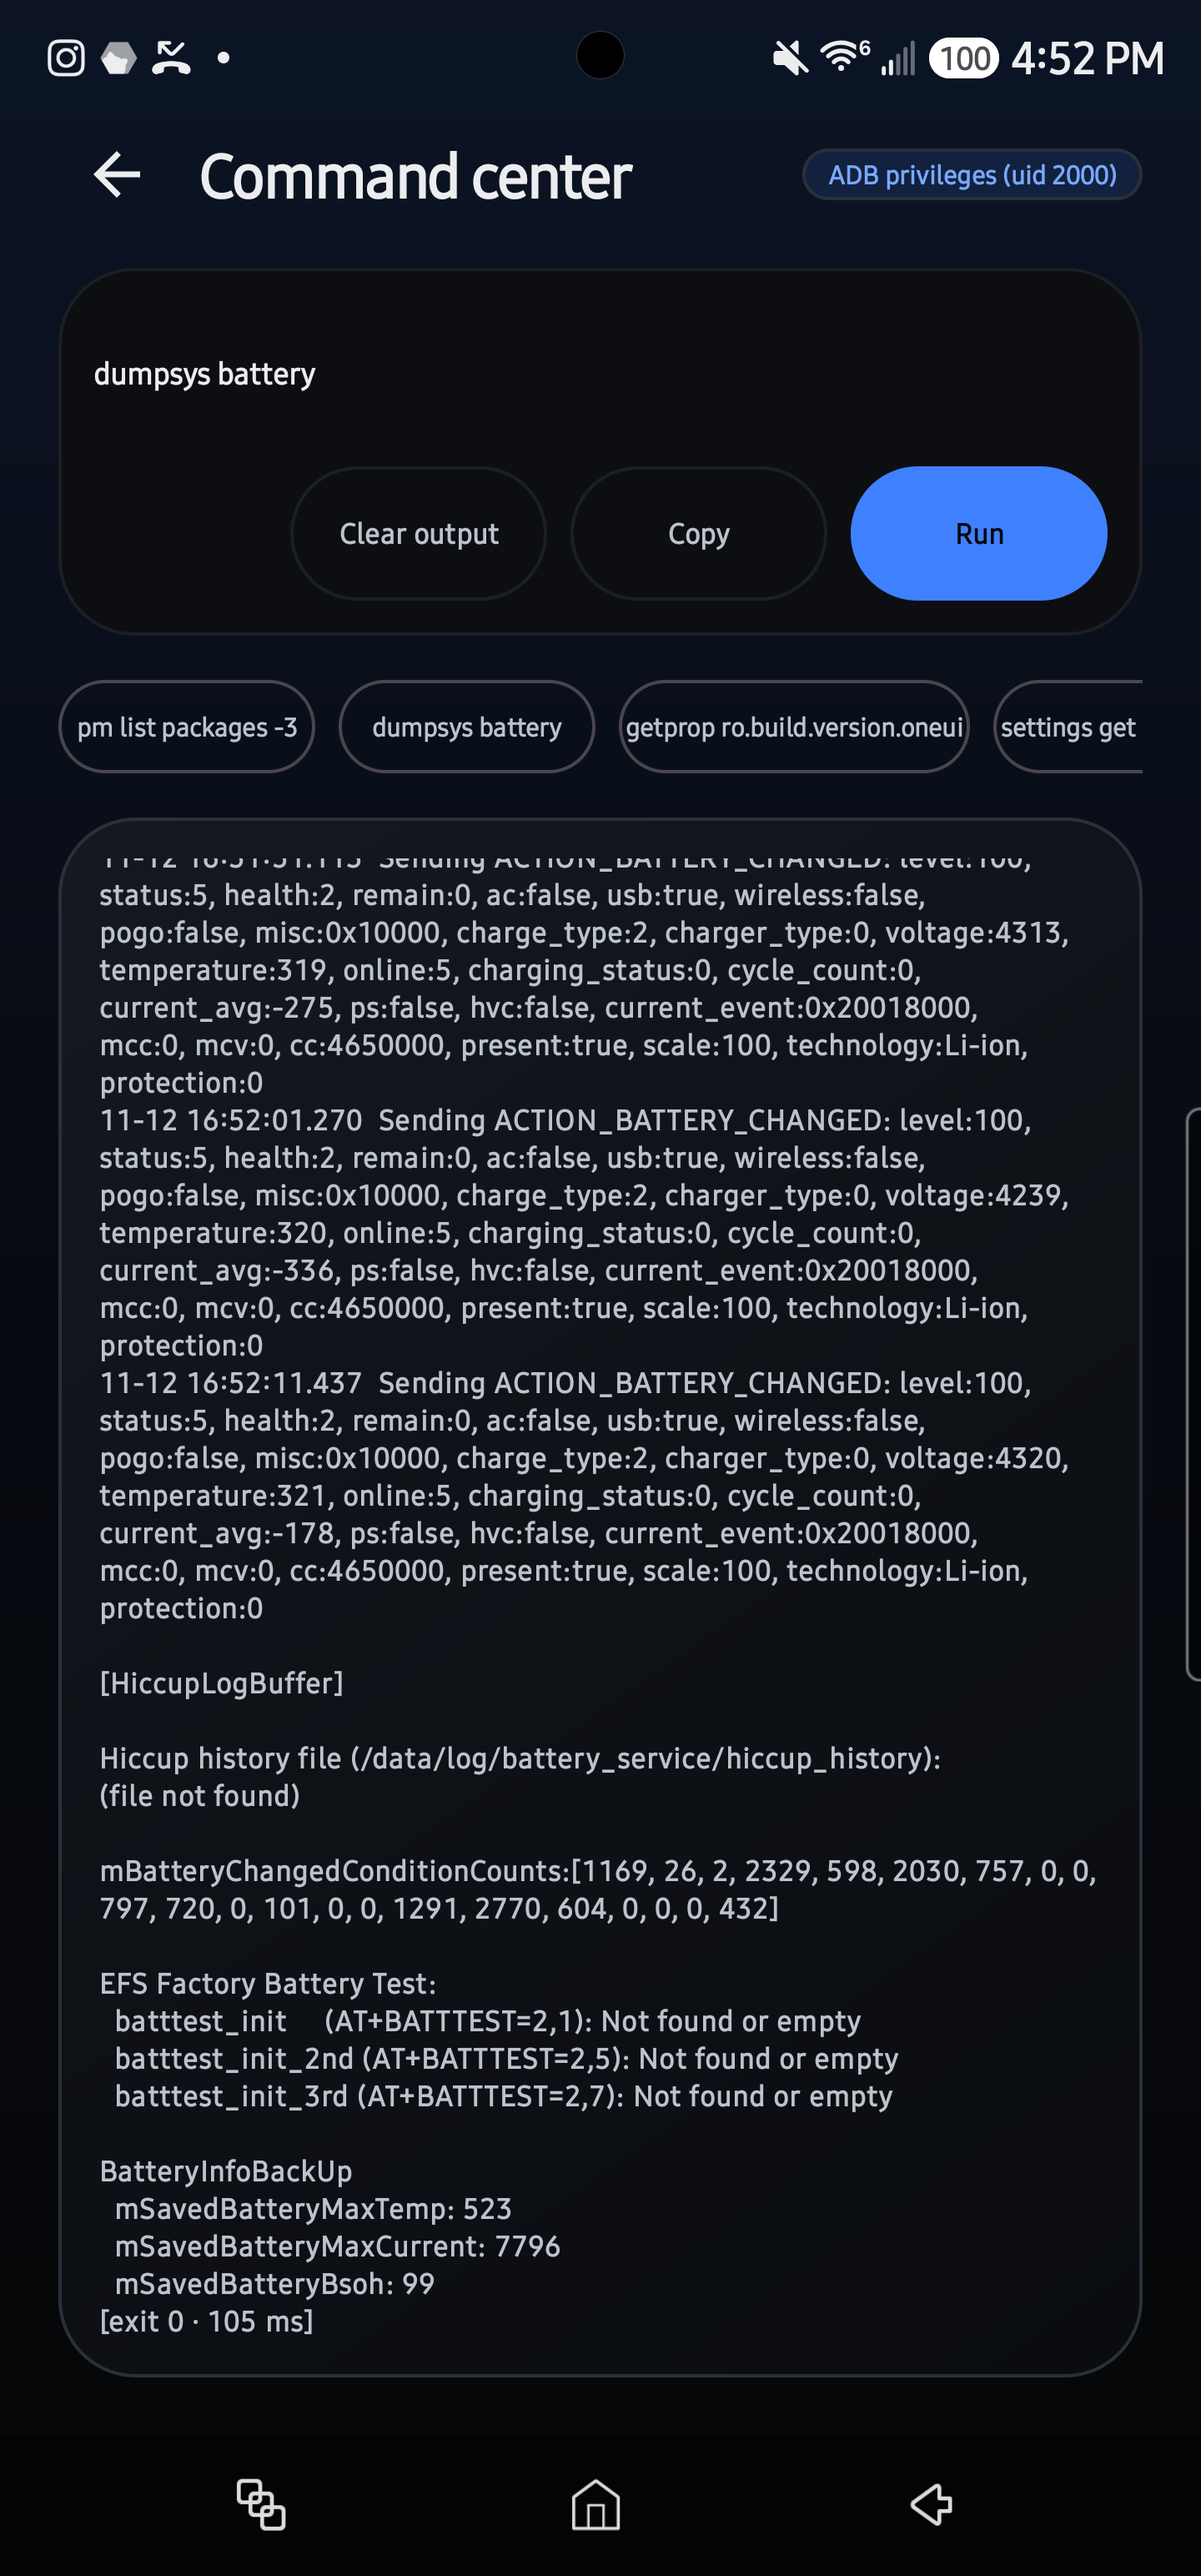
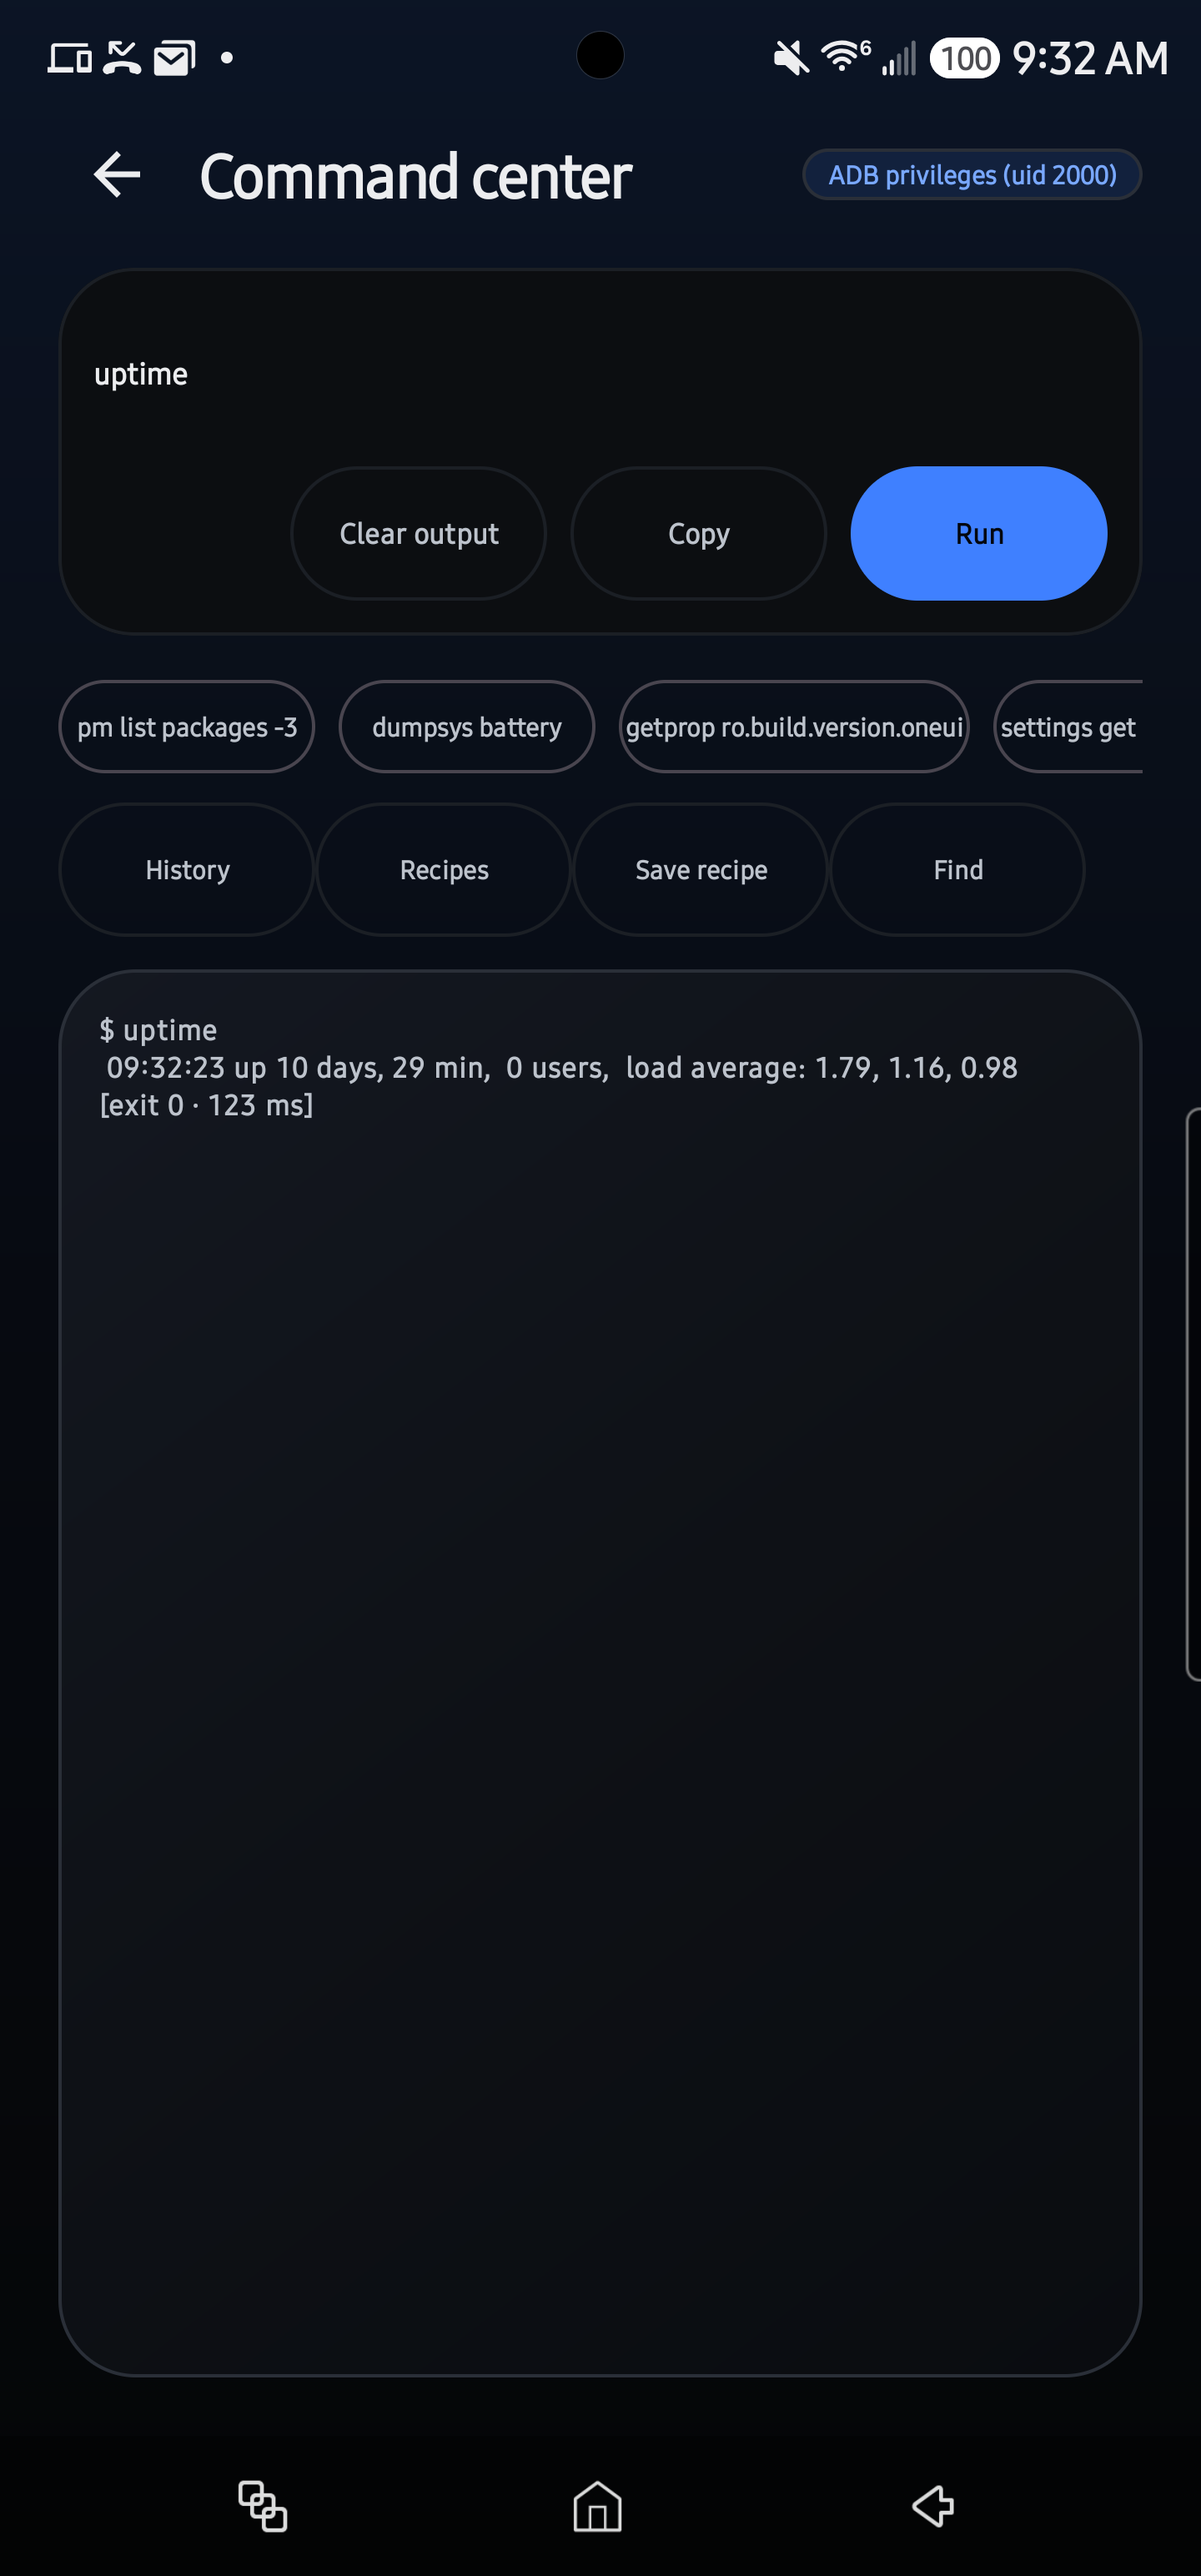
Show the new tools on the site gallery
The website still showed the six original screens, so the gallery now carries
the AppOps manager, permissions, components, optimization center, snapshots,
backup and security center, plus the rebuilt command center and tools list.

diff --git a/site/index.html b/site/index.html
@@ -152,9 +152,10 @@
             <h3 class="card__title">Command center</h3>
             <p class="card__copy">
               Run shell commands through the service with its real privilege level. Exit codes, stderr and
-              duration are shown exactly as they came back, with presets for the usual checks.
+              duration are shown exactly as they came back, with presets, command history, saved recipes
+              and transcript search.
             </p>
-            <div class="card__tags"><span class="chip">uid 2000</span><span class="chip">presets</span></div>
+            <div class="card__tags"><span class="chip">uid 2000</span><span class="chip">presets</span><span class="chip">recipes</span></div>
           </article>
 
           <article class="card" data-reveal>
@@ -229,18 +230,18 @@
             <span class="shot__meta"><strong>Authorizations</strong><span>23 listed · 24 hold it</span></span>
             <span class="shot__hint" aria-hidden="true">Expand</span>
           </button>
-          <button class="shot" type="button" data-reveal data-shot="assets/shots/tools.png"
+          <button class="shot" type="button" data-reveal data-shot="assets/shots/tools.png?v=2"
                   data-title="Tools" data-sub="packages, tweaks, shell"
                   aria-label="Open the Tools screenshot at full size">
-            <img src="assets/shots/tools.png" alt="Tools screen" loading="lazy">
-            <span class="shot__meta"><strong>Tools</strong><span>packages, tweaks, shell</span></span>
+            <img src="assets/shots/tools.png?v=2" alt="Tools screen" loading="lazy">
+            <span class="shot__meta"><strong>Tools</strong><span>packages, tweaks, security, shell</span></span>
             <span class="shot__hint" aria-hidden="true">Expand</span>
           </button>
-          <button class="shot" type="button" data-reveal data-shot="assets/shots/command-center.png"
-                  data-title="Command center" data-sub="real exit codes"
+          <button class="shot" type="button" data-reveal data-shot="assets/shots/command-center.png?v=2"
+                  data-title="Command center" data-sub="history, recipes, real exit codes"
                   aria-label="Open the Command center screenshot at full size">
-            <img src="assets/shots/command-center.png" alt="Command center" loading="lazy">
-            <span class="shot__meta"><strong>Command center</strong><span>real exit codes</span></span>
+            <img src="assets/shots/command-center.png?v=2" alt="Command center" loading="lazy">
+            <span class="shot__meta"><strong>Command center</strong><span>history, recipes, real exit codes</span></span>
             <span class="shot__hint" aria-hidden="true">Expand</span>
           </button>
           <button class="shot" type="button" data-reveal data-shot="assets/shots/diagnostics.png"
@@ -255,6 +256,55 @@
                   aria-label="Open the Automation screenshot at full size">
             <img src="assets/shots/automation.png" alt="Automation screen with auth token and control intents" loading="lazy">
             <span class="shot__meta"><strong>Automation</strong><span>intents and events</span></span>
+            <span class="shot__hint" aria-hidden="true">Expand</span>
+          </button>
+          <button class="shot" type="button" data-reveal data-shot="assets/shots/security-center.png"
+                  data-title="Security and privacy" data-sub="overrides, each with a verified fix"
+                  aria-label="Open the Security and privacy screenshot at full size">
+            <img src="assets/shots/security-center.png" alt="Security and privacy screen listing AppOps overrides with Fix buttons" loading="lazy">
+            <span class="shot__meta"><strong>Security and privacy</strong><span>overrides, each with a verified fix</span></span>
+            <span class="shot__hint" aria-hidden="true">Expand</span>
+          </button>
+          <button class="shot" type="button" data-reveal data-shot="assets/shots/appops.png"
+                  data-title="AppOps manager" data-sub="per operation modes, read back"
+                  aria-label="Open the AppOps manager screenshot at full size">
+            <img src="assets/shots/appops.png" alt="App operation modes for Dropbox with allow, ignore and foreground badges" loading="lazy">
+            <span class="shot__meta"><strong>AppOps manager</strong><span>per operation modes, read back</span></span>
+            <span class="shot__hint" aria-hidden="true">Expand</span>
+          </button>
+          <button class="shot" type="button" data-reveal data-shot="assets/shots/permissions.png"
+                  data-title="Permissions" data-sub="grant and revoke, verified"
+                  aria-label="Open the Permissions screenshot at full size">
+            <img src="assets/shots/permissions.png" alt="Permission inspector showing 30 permissions, 30 granted" loading="lazy">
+            <span class="shot__meta"><strong>Permissions</strong><span>grant and revoke, verified</span></span>
+            <span class="shot__hint" aria-hidden="true">Expand</span>
+          </button>
+          <button class="shot" type="button" data-reveal data-shot="assets/shots/components.png"
+                  data-title="Components" data-sub="activities, services, receivers"
+                  aria-label="Open the Components screenshot at full size">
+            <img src="assets/shots/components.png" alt="App components screen listing activities with an enabled package" loading="lazy">
+            <span class="shot__meta"><strong>Components</strong><span>activities, services, receivers</span></span>
+            <span class="shot__hint" aria-hidden="true">Expand</span>
+          </button>
+          <button class="shot" type="button" data-reveal data-shot="assets/shots/optimization-center.png"
+                  data-title="Optimization center" data-sub="profiles and one restore"
+                  aria-label="Open the Optimization center screenshot at full size">
+            <img src="assets/shots/optimization-center.png" alt="Optimization center with profiles and a preview" loading="lazy">
+            <span class="shot__meta"><strong>Optimization center</strong><span>profiles and one restore</span></span>
+            <span class="shot__hint" aria-hidden="true">Expand</span>
+          </button>
+          <button class="shot" type="button" data-reveal data-shot="assets/shots/snapshots.png"
+                  data-title="Snapshots" data-sub="settings, apps and AppOps"
+                  aria-label="Open the Snapshots screenshot at full size">
+            <img src="assets/shots/snapshots.png" alt="Snapshot and restore screen listing a saved snapshot" loading="lazy">
+            <span class="shot__meta"><strong>Snapshots</strong><span>settings, apps and AppOps</span></span>
+            <span class="shot__hint" aria-hidden="true">Expand</span>
+          </button>
+          <button class="shot" type="button" data-reveal data-shot="assets/shots/backup.png"
+                  data-title="Backup" data-sub="export and import"
+                  aria-label="Open the Backup screenshot at full size">
+            <img src="assets/shots/backup.png" alt="Backup and restore screen for app settings" loading="lazy">
+            <span class="shot__meta"><strong>Backup</strong><span>export and import</span></span>
             <span class="shot__hint" aria-hidden="true">Expand</span>
           </button>
         </div>
